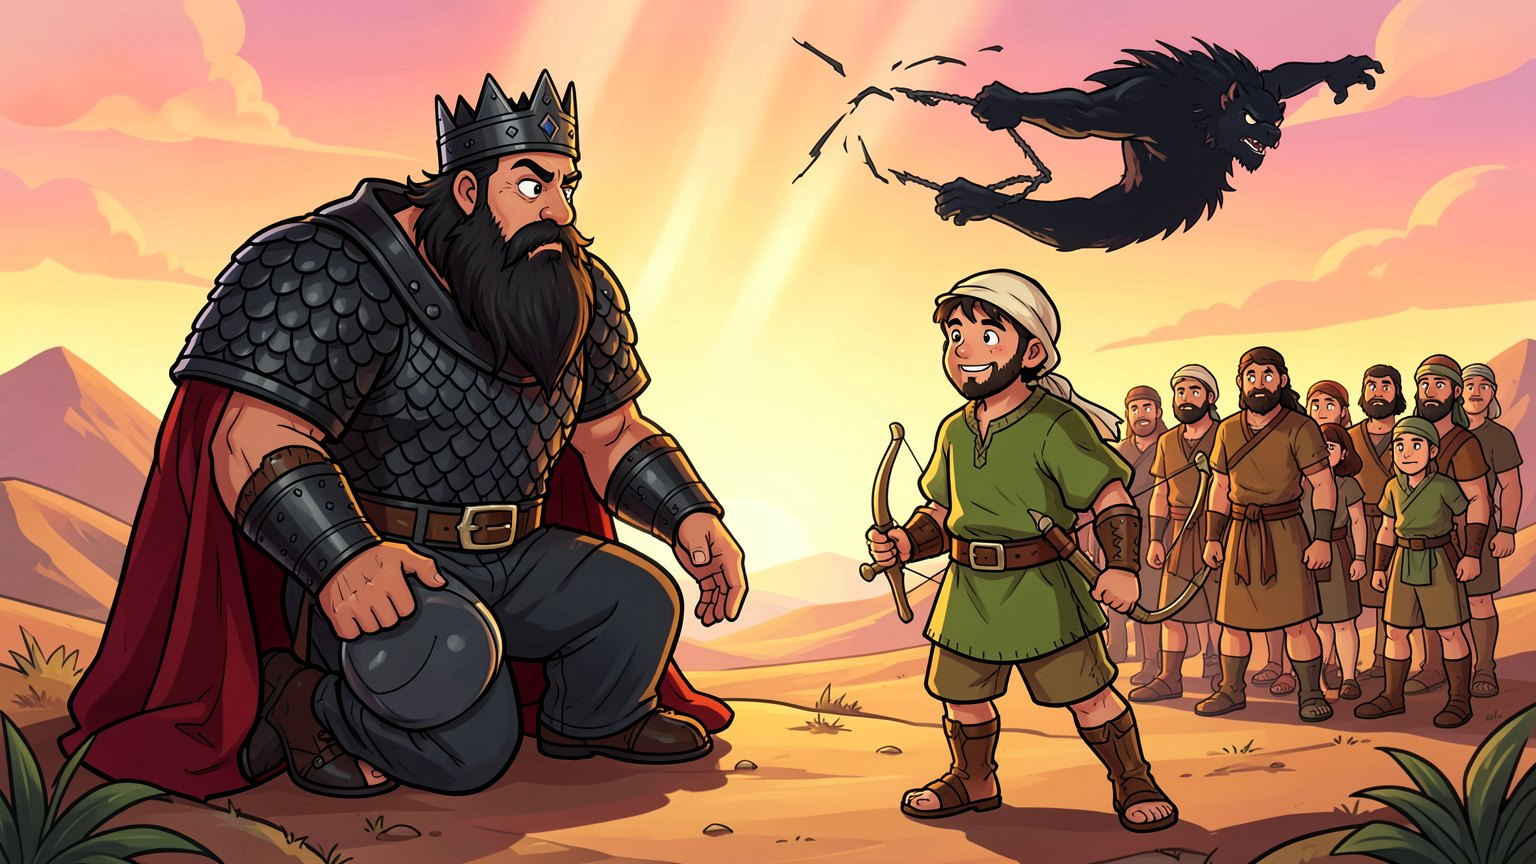
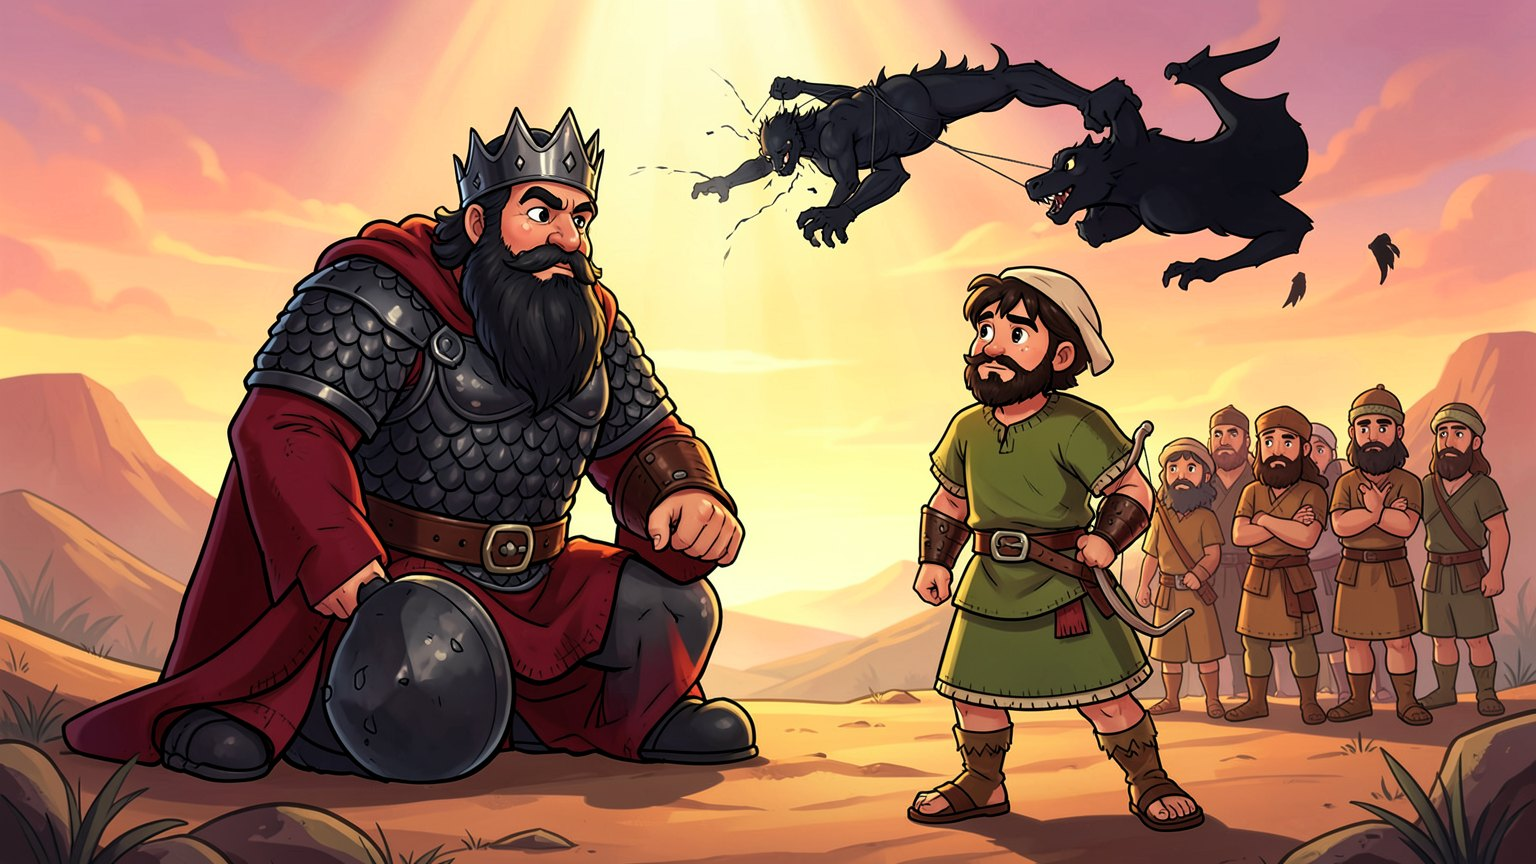
v1.5.2: 에드레이 승리 만화 첫 그림의 갈렙 수염 고침
- v8a: 턱 한쪽에만 듬성듬성하던 수염을 볼·턱을 고르게 덮는 짧은 검은 수염으로 다시 그림(_art/재생성16.json 시드 15)
- 판 1.5.2(versionCode 12), 그림 캐시 ?v=16

diff --git a/index.html b/index.html
@@ -304,7 +304,7 @@ body.force #rotate{display:none!important}
     <h1 class="logo"><span class="a">Kingdom of God</span><span class="b">Old Testament</span></h1>
     <p class="tsub">하나님의 나라 · 구약</p>
     <div class="row" style="margin-top:.6em;font-size:1.35em"><button class="btn" id="bStart">시작하기</button><button class="btn" id="bCont">계속하기</button><button class="btn wood" id="bCodexT">두루마리</button></div>
-    <p class="tnote">v1.5.1 · 1장 약속, 2장 구원의 밤, 3장 광야 (방주부터 에드레이까지)</p>
+    <p class="tnote">v1.5.2 · 1장 약속, 2장 구원의 밤, 3장 광야 (방주부터 에드레이까지)</p>
   </section>
   <section id="sSlots" class="scr" hidden>
     <div class="card slots"><h2 id="slotH">계속하기</h2><p class="sub" id="slotSub"></p><div id="slotList"></div><div class="row"><button class="btn" id="slotNew" hidden>새 이야기 시작</button><button class="btn wood" id="slotBack">돌아가기</button></div></div>
@@ -1506,7 +1506,7 @@ const ART_DEF={
   shep1:{h:62,top:.5},shep2:{h:68,top:.5},shep3:{h:74,top:.5},art1:{h:76,top:.7},art2:{h:82,top:.72},art3:{h:88,top:.74},
 };
 const ART={};
-const AV='?v=15';   // 그림을 바꿀 때마다 올려서 예전 그림이 캐시에서 나오지 않게
+const AV='?v=16';   // 그림을 바꿀 때마다 올려서 예전 그림이 캐시에서 나오지 않게
 const BG_IMG={},REAR_IMG={};   // REAR_IMG: 처음엔 막혀 있는 뒷길을 덮는 그림(bgN_rear.png)
 function loadArt(){for(const k of Object.keys(STAGES).map(Number)){const im=new Image();im.onload=()=>{BG_IMG[k]=im;if(G&&G.sid===k)buildBg();};im.src='art/bg'+k+'.jpg'+AV;if(STAGES[k].rear!=null){const r=new Image();r.onload=()=>{REAR_IMG[k]=r;if(G&&G.sid===k)buildBg();};r.src='art/bg'+k+'_rear.png'+AV;}}
   for(const k in ART_DEF){const im=new Image();im.onload=()=>{try{ART[k]=prepArt(im,ART_DEF[k]);if(G&&G.hero&&G.hero.kind===k)drawHeroPortrait($('heroCv'),k);}catch(e){}};im.src='art/'+k+'.png'+AV;}}

diff --git a/기획서.md b/기획서.md
@@ -347,6 +347,7 @@
 - [x] v1.5 저장(10-12 사용자): 처음 화면을 시작하기 · 계속하기 · 두루마리로. 이야기 슬롯은 3개까지이고 슬롯마다 별·영웅 연단·별 강화를 따로 저장한다(`kog.s<번호>.best/heroes/upg`). 계속하기에서 이어 하거나 지울 수 있고(한 번 더 눌러야 지워짐), 3개가 차면 새로 시작하기 전에 하나를 지운다. 예전 저장은 처음 열 때 이야기 1로 옮긴다
 - [x] v1.5 더(10-12 사용자): 폰·태블릿에서 두 손가락으로 확대·축소(최대 2.6배)하고, 확대한 채 빈 곳을 한 손가락으로 끌면 옮겨진다. 놀이·시작 이야기·승리 만화에서 되고, 왼쪽 아래 "전체 보기"로 돌아온다. PC는 마우스 휠. 터치는 손을 뗄 때 누른 것으로 친다. 바로의 기술 이름을 "완악한 마음"으로(보호막이 다시 생김, 출 8:15). 1 방주 시작 만화 3번(s1a, 포악함이 가득한 땅)은 가운데 사람 오른팔이 머리 뒤로 꺾여 다시 그림(`_art/재생성14.json` 시드 6). 5번(s1c, 몰려오는 사람들)도 팔을 다듬어 다시 그림(`재생성12.json` 시드 5). 갈렙은 여호수아 또래로 보이게 젊고 검은 수염으로 다시 그리고(성경으로는 에드레이 때 일흔아홉쯤이지만 "여전히 강건하니", 수 14:11), 승리 만화 v8a의 발이 셋인 갈렙도 고침(`재생성15.json`)
 - [x] v1.5.1(10-12 사용자): 순금 등잔대 기술 "꺼지지 않는 등불"(멈춤 면역)을 "오직 나의 영으로"(슥 4:6)로 바꿈. 빛을 쏠 때마다 둘레 85·100·115 안의 모든 적(하늘 포함)에게 거룩한 빛 10·16·24. 탑·병사·영웅·적을 누르면 킹덤러쉬처럼 아래 가운데에 정보 칸: 초상화, 이름, 단계·영, 체력 막대, 공격·공격 속도·사거리·방어(교만의 갑옷)·완악한 마음·이동·등불·다시 섬 따위를 아이콘과 말(빠름·보통·긺)로. 고른 것이 화면 아래쪽이면 정보 칸은 맨 위 줄로 가고 알림과 보스 막대가 조금 내려간다. 고른 적에게는 발밑 점선 고리. 예전 영웅 카드(hcard)는 이 칸으로 합침
+- [x] v1.5.2(10-12 사용자): 8 에드레이 승리 만화 첫 그림(v8a)의 갈렙 수염이 턱 한쪽에만 듬성듬성해 다시 그림. 볼·턱을 고르게 덮는 짧은 검은 수염(`_art/재생성16.json` 시드 15)
 - [ ] 9 여리고 설계(10-12 사용자): 열네 무리. 날은 홀수 무리가 시작될 때 센다.
   - 1·2무리: 행렬 없음. 여리고는 굳게 닫혀 출입하는 자가 없다(6:1).
   - 3·5·7·9·11·13무리 시작: 이스라엘 행렬이 길을 한 바퀴 돈다. 앞에 무장한 선봉, 뒤에 양각나팔 부는 제사장 일곱(6:4, 6:9). 화면에 '1일째'…'6일째'. 나팔 소리에 적이 잠깐 멈추는 식의 효과를 붙인다. 나팔은 적에게 주지 않는다.
